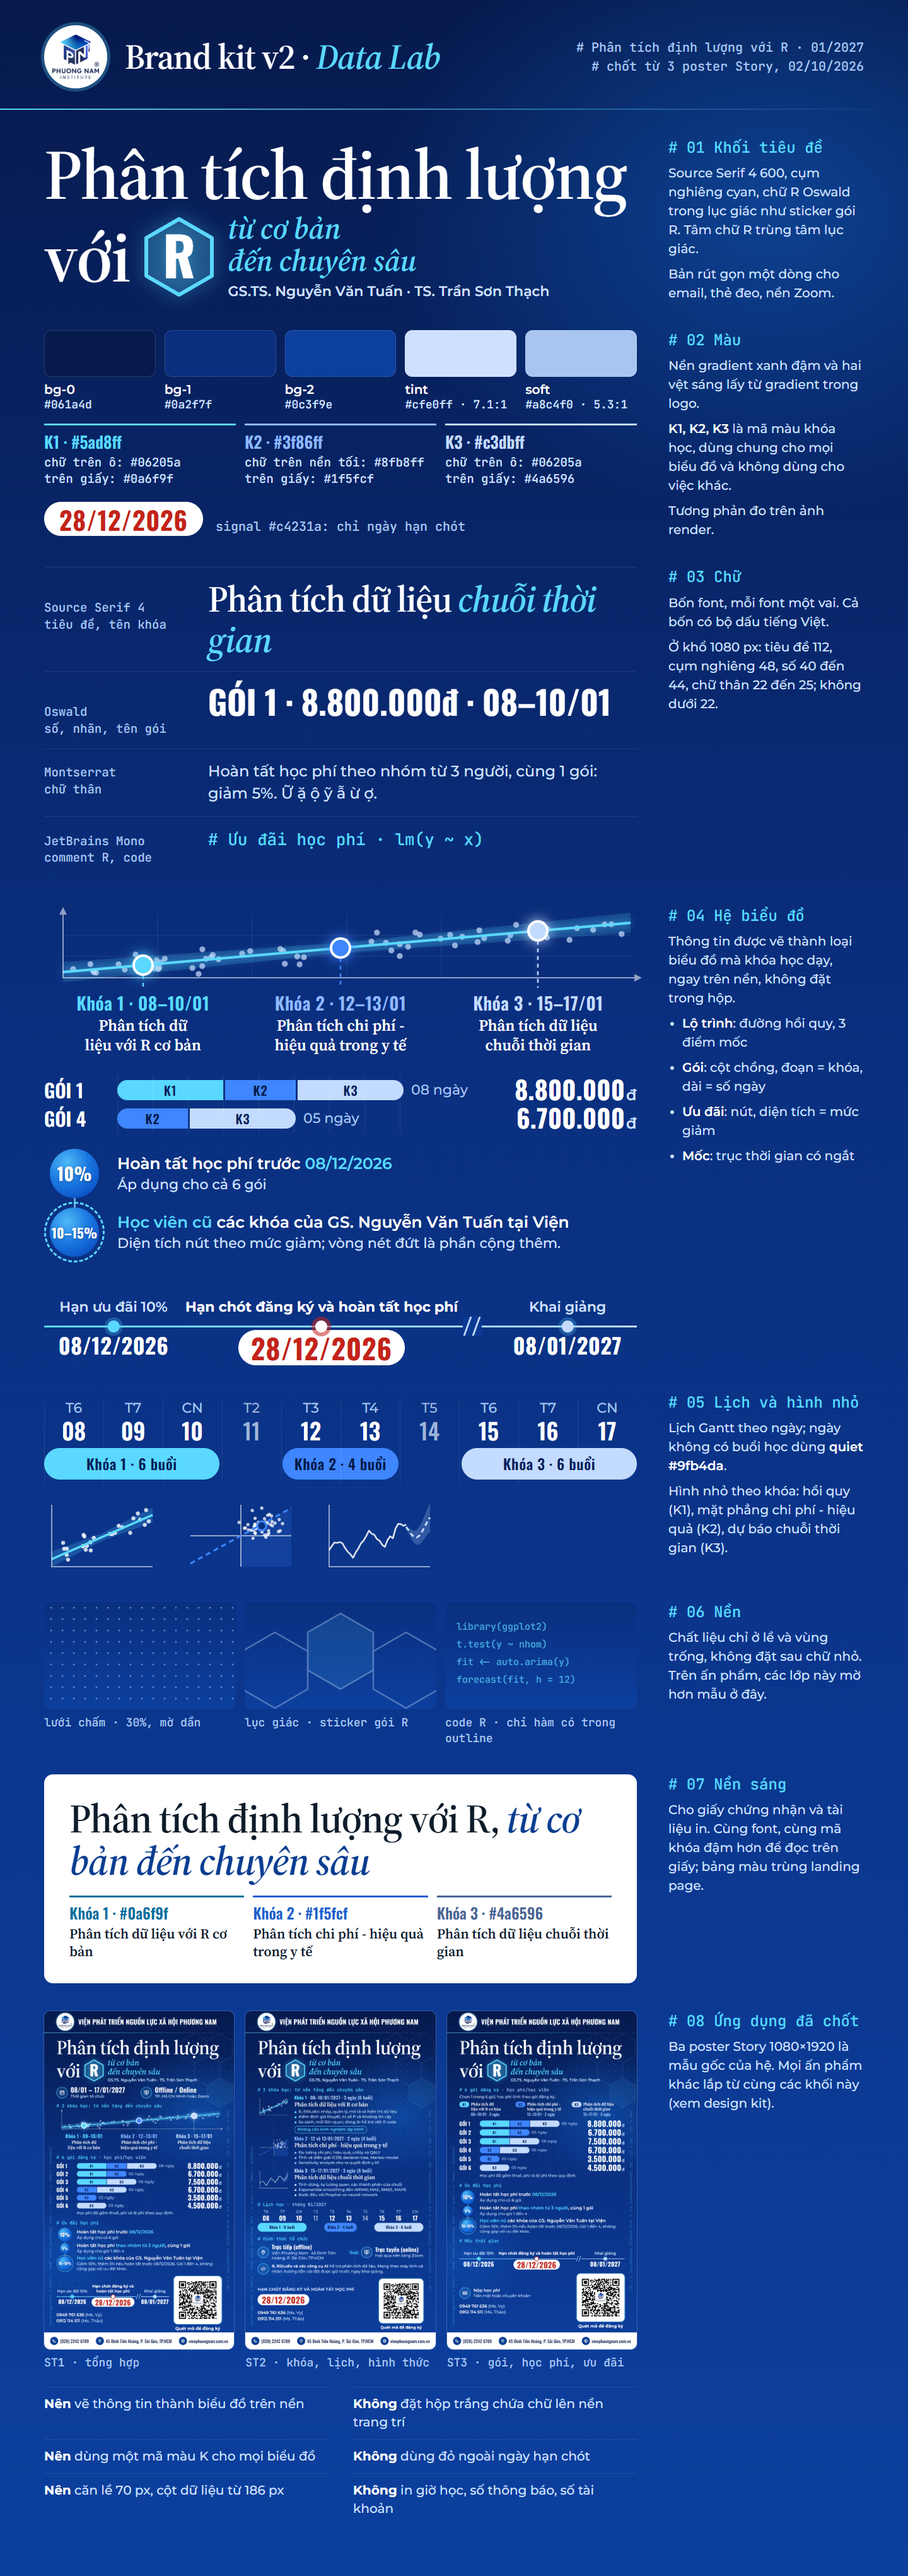
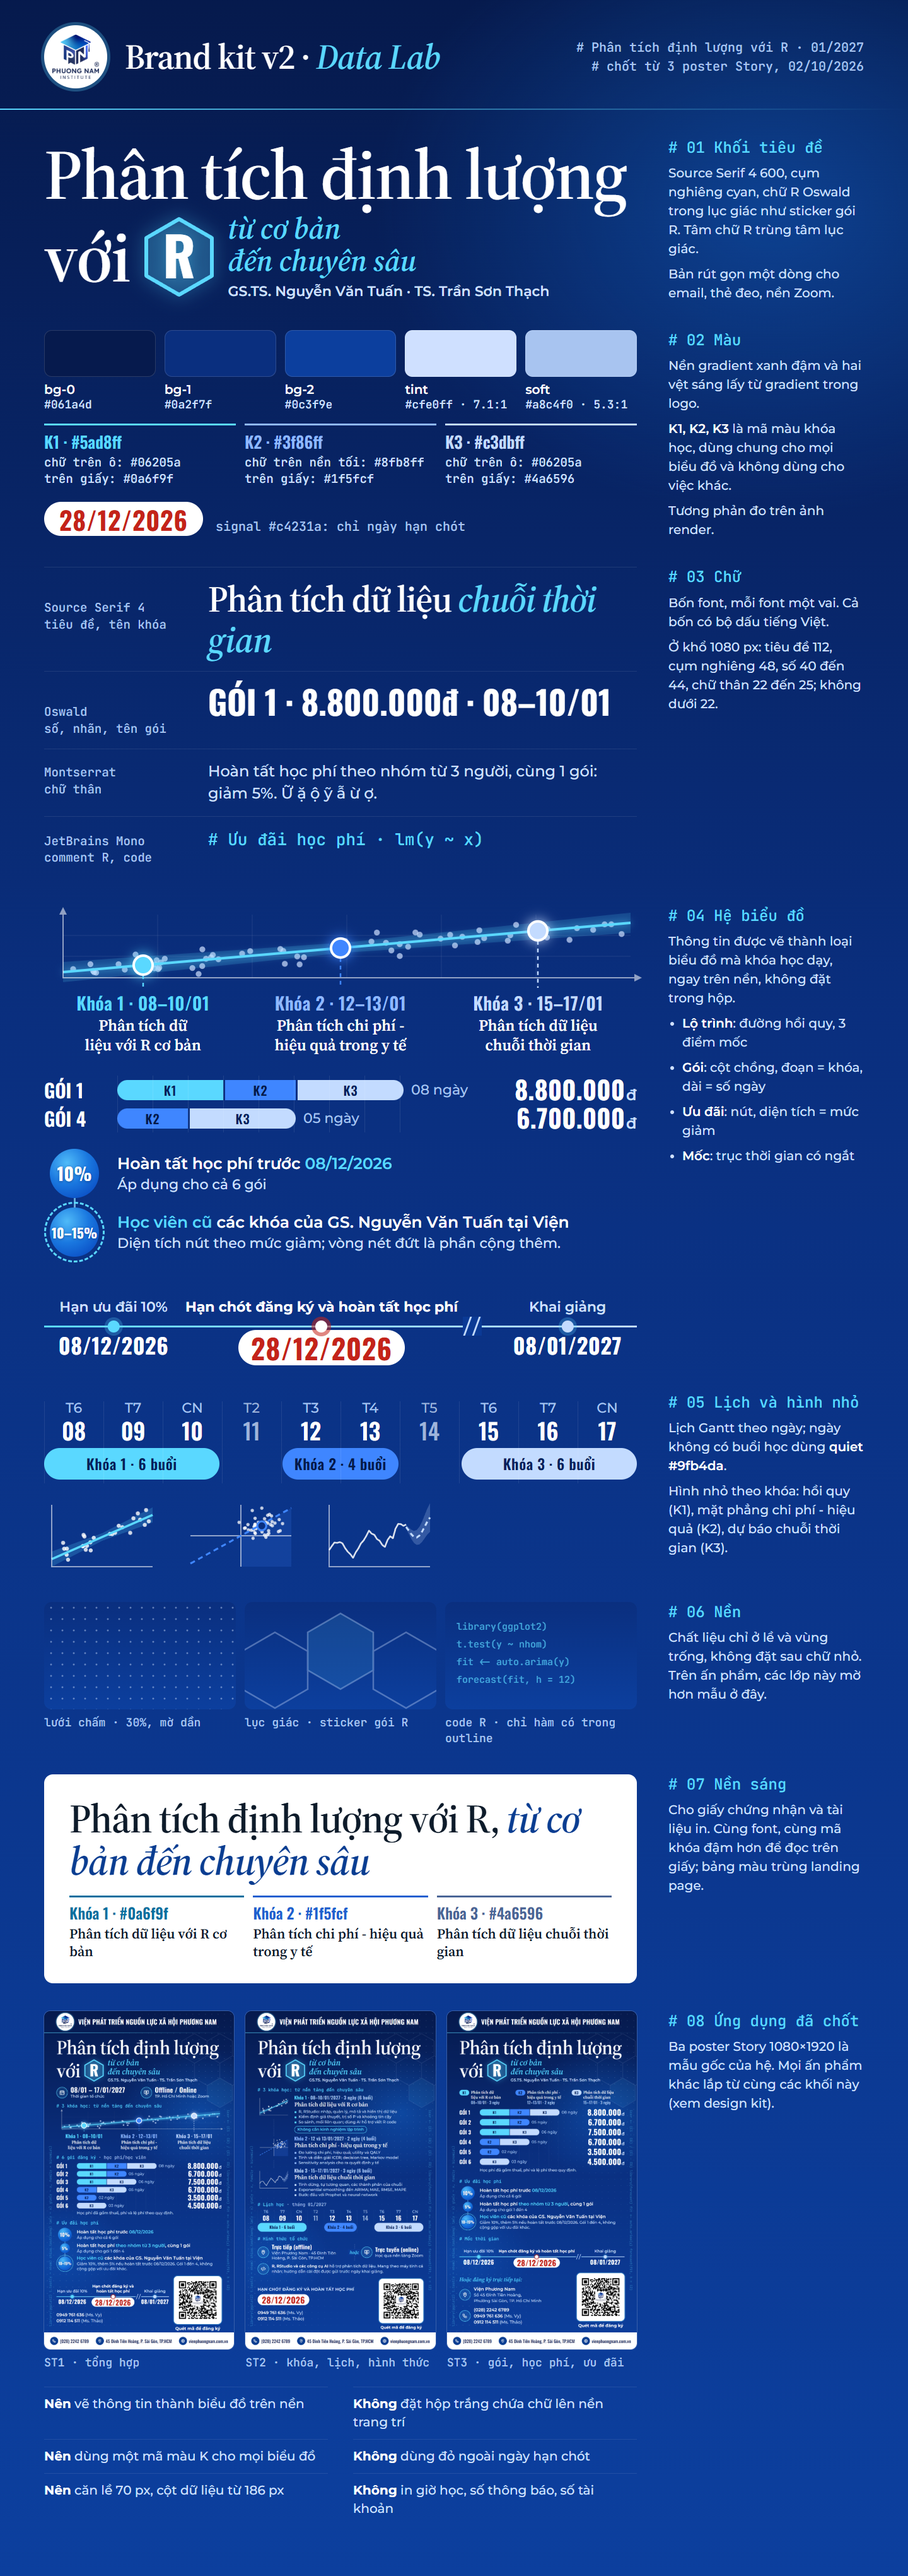
ST3 poster: walk-in registration details replace the payment block
Feedback on the fee poster (ST3):
- Drop the "# 6 gói đăng ký · học phí/học viên" label and the
  "Chọn 1 trong 6 gói" line; the K1/K2/K3 legend now opens the chart.
- Drop "Nộp học phí: tiền mặt hoặc chuyển khoản". content.md already
  says payment details belong on documents sent to registered students,
  not on posters.
- Show the full walk-in registration text beside the QR: "Hoặc đăng ký
  trực tiếp tại:" in the italic serif cyan that ST2 uses for "hoặc",
  then a pin row (Viện Phương Nam and the full address) and a phone row
  ((028) 2242 6789, Ms. Vy, Ms. Thảo). Line breaks replace the dash
  separators of the source text; every item is kept.

The freed height goes to the layout instead of a gap above the footer:
40px between the title and the legend, 56px bar rows (was 50px), and
32px between sections. Unused .pay and .pick rules are removed and
.reg is added. ST1 and ST2 render pixel-identical; text in the new
block measures at least 5.9:1 against the rendered background.

Changed region(s): [[0.5, 0.8091, 0.6875, 0.9025]]

diff --git a/media/poster/ads/story-goi-hoc-phi-uu-dai.html b/media/poster/ads/story-goi-hoc-phi-uu-dai.html
@@ -50,8 +50,6 @@
   </section>
 
   <section class="wrap" aria-label="Gói đăng ký và học phí">
-    <p class="code sec"># 6 gói đăng ký <span class="dim">· học phí/học viên</span></p>
-    <p class="pick">Chọn 1 trong 6 gói; học phí tính theo gói đăng ký.</p>
     <div class="legend">
       <div><i class="s1">K1</i><p><b>Phân tích dữ liệu với R cơ bản</b><span>08–10/01 · 3 ngày</span></p></div>
       <div><i class="s2">K2</i><p><b>Phân tích chi phí - hiệu quả trong y tế</b><span>12–13/01 · 2 ngày</span></p></div>
@@ -69,7 +67,7 @@
   </section>
 
   <section class="wrap" aria-label="Ưu đãi học phí">
-    <p class="code sec"># Ưu đãi học phí</p>
+    <p class="code sec" style="margin-top: 32px"># Ưu đãi học phí</p>
     <ul class="deals">
       <li><span class="node n10">10%</span><p>Hoàn tất học phí trước <em>08/12/2026</em><small>Áp dụng cho cả 6 gói</small></p></li>
       <li><span class="node n5">5%</span><p>Hoàn tất học phí <em>theo nhóm từ 3 người</em>, cùng 1 gói<small>Áp dụng cho gói 1 đến 4</small></p></li>
@@ -78,7 +76,7 @@
   </section>
 
   <section class="wrap" aria-label="Mốc thời gian">
-    <p class="code sec" style="margin-top: 20px"># Mốc thời gian</p>
+    <p class="code sec" style="margin-top: 32px"># Mốc thời gian</p>
     <div class="time wide" style="margin-top: 10px">
       <div class="line"></div>
       <span class="brk" style="left: 664px"></span>
@@ -88,13 +86,17 @@
     </div>
   </section>
 
-  <section class="wrap end" aria-label="Nộp học phí và đăng ký">
-    <div>
-      <div class="pay">
-        <span class="ring"><svg viewBox="0 0 24 24" fill="none" stroke="#fff" stroke-width="2" stroke-linecap="round" stroke-linejoin="round"><rect x="2.5" y="6" width="19" height="12" rx="2"/><circle cx="12" cy="12" r="2.6"/><path d="M6 9.5v5M18 9.5v5"/></svg></span>
-        <p>Nộp học phí<span>Tiền mặt hoặc chuyển khoản</span></p>
+  <section class="wrap end" aria-label="Đăng ký" style="margin-top: 32px">
+    <div class="reg">
+      <p class="lead">Hoặc đăng ký trực tiếp tại:</p>
+      <div>
+        <span class="ring"><svg viewBox="0 0 24 24" fill="none" stroke="#fff" stroke-width="2" stroke-linecap="round" stroke-linejoin="round"><path d="M12 21s-6.5-6-6.5-11.2a6.5 6.5 0 0 1 13 0C18.5 15 12 21 12 21z"/><circle cx="12" cy="9.6" r="2.4"/></svg></span>
+        <p><b>Viện Phương Nam</b>Số 45 Đinh Tiên Hoàng,<br>Phường Sài Gòn, TP. Hồ Chí Minh</p>
       </div>
-      <p class="contact">0949 761 636 <span>(Ms. Vy)</span><br>0912 114 511 <span>(Ms. Thảo)</span></p>
+      <div>
+        <span class="ring"><svg viewBox="0 0 24 24" fill="none" stroke="#fff" stroke-width="2" stroke-linecap="round" stroke-linejoin="round"><path d="M5 4h3.5l1.8 4.5-2.3 1.4a11 11 0 0 0 5.1 5.1l1.4-2.3 4.5 1.8V18a2 2 0 0 1-2 2A15 15 0 0 1 3 6a2 2 0 0 1 2-2z"/></svg></span>
+        <p><b>(028) 2242 6789</b><b>0949 761 636 <span>(Ms. Vy)</span></b><b>0912 114 511 <span>(Ms. Thảo)</span></b></p>
+      </div>
     </div>
     <figure class="qr">
       <div class="box"><img src="../../../assets/M%C3%A3%20QR%20chu%E1%BB%97i%20PTDL%20R%2001.27.png" alt="Mã QR đăng ký chuỗi khóa học"></div>

diff --git a/media/poster/ads/story.css b/media/poster/ads/story.css
@@ -163,19 +163,21 @@ html, body { background: #dfe7f0; }
 /* ---- Closing block variants ---- */
 .dl p { font: 700 23px/1.3 var(--text); color: var(--tint); text-transform: uppercase; letter-spacing: 0.02em; }
 .dl .pill { display: inline-block; margin-top: 12px; background: #fff; color: var(--signal); border-radius: 30px; padding: 8px 24px 6px; font: 700 48px/1 var(--display); letter-spacing: 0.02em; }
-.pay { display: grid; grid-template-columns: 64px 1fr; column-gap: 16px; align-items: center; }
-.pay p { font: 600 24px/1.35 var(--text); }
-.pay p span { display: block; font: 500 22px/1.3 var(--text); color: var(--tint); }
+/* Walk-in registration beside the QR; the italic serif "Hoặc" matches the "hoặc" of the course poster */
+.reg .lead { font: italic 600 32px/1.2 var(--serif); color: var(--k1); }
+.reg div { display: grid; grid-template-columns: 64px 1fr; column-gap: 18px; align-items: center; margin-top: 18px; }
+.reg p { font: 500 23px/1.4 var(--text); color: var(--tint); }
+.reg b { display: block; font: 600 25px/1.4 var(--text); color: #fff; }
+.reg b span { font-weight: 500; color: var(--tint); }
 
 /* ---- Fee poster: course legend for the bar chart ---- */
-.legend { display: grid; grid-template-columns: repeat(3, 1fr); column-gap: 18px; margin-top: 12px; }
+.legend { display: grid; grid-template-columns: repeat(3, 1fr); column-gap: 18px; margin-top: 40px; }
 .legend div { display: grid; grid-template-columns: 56px 1fr; column-gap: 10px; align-items: start; }
 .legend i { display: grid; place-items: center; height: 32px; border-radius: 16px; font: 600 20px/1 var(--display); letter-spacing: 0.04em; font-style: normal; color: var(--ink-dark); }
 .legend i.s2 { color: #041a4a; }
 .legend b { display: block; font: 600 23px/1.22 var(--serif); text-wrap: balance; }
 .legend span { display: block; margin-top: 2px; font: 500 22px/1.2 var(--display); color: var(--soft); letter-spacing: 0.02em; }
 .legend .s1, .legend .s2, .legend .s3 { width: auto; }
-.pick { margin-top: 10px; font: 500 22px/1.3 var(--text); color: var(--tint); }
 
 /* Smaller QR block where the poster needs the height */
 .end.sm { grid-template-columns: 1fr 252px; }
@@ -184,7 +186,7 @@ html, body { background: #dfe7f0; }
 .qr.sm figcaption { font-size: 22px; white-space: nowrap; }
 
 /* ---- Fee poster: larger bars and a full-width time axis ---- */
-.bars-wrap.lg .bar { height: 50px; }
+.bars-wrap.lg .bar { height: 56px; }
 .bars-wrap.lg .track, .bars-wrap.lg .seg { height: 36px; }
 .bars-wrap.lg .seg:first-child { border-radius: 18px 0 0 18px; } .bars-wrap.lg .seg:last-child { border-radius: 0 18px 18px 0; } .bars-wrap.lg .seg:only-child { border-radius: 18px; }
 .bars-wrap.lg .fee { font-size: 44px; }

diff --git a/media/poster/README.md b/media/poster/README.md
@@ -17,7 +17,7 @@ Trạng thái: **đã chốt ST1, ST2, ST3** (02/10/2026), là mẫu gốc của
 | P4 | 1080×1080 | Một biểu đồ, một dòng ngày: bản giai đoạn 1 "Trước 08/12/2026: giảm 10%", bản giai đoạn 2 "Hạn chót 28/12/2026" |
 | ST1 | 1080×1920 (Story Instagram/Facebook) | **Đã dựng.** Quảng cáo dạng "mọi thông tin là một biểu đồ": lộ trình 3 khóa trên đường hồi quy, 6 gói là biểu đồ cột chồng theo số ngày, ưu đãi là đồ thị nút, mốc thời gian là trục có ngắt. `ads/story-khoa-goi-uu-dai.html` |
 | ST2 | 1080×1920 (Story/Reel) | **Đã dựng.** 3 khóa · lịch học · hình thức: mỗi khóa một hình nhỏ (hồi quy, mặt phẳng chi phí - hiệu quả, dự báo) và 3 nội dung chính từ outline; lịch Gantt 08–17/01/2027 theo ngày và số buổi; sơ đồ Trực tiếp hoặc Trực tuyến; phần mềm và máy tính cá nhân. `ads/story-khoa-hoc-lich-hoc.html` |
-| ST3 | 1080×1920 (Story/Reel) | **Đã dựng.** Gói · học phí · ưu đãi · hạn chót: chú giải K1/K2/K3, biểu đồ cột chồng 6 gói, 3 nút ưu đãi, trục thời gian 08/12 · 28/12 · 08/01, nộp học phí tiền mặt hoặc chuyển khoản. `ads/story-goi-hoc-phi-uu-dai.html` |
+| ST3 | 1080×1920 (Story/Reel) | **Đã dựng.** Gói · học phí · ưu đãi · hạn chót: chú giải K1/K2/K3, biểu đồ cột chồng 6 gói, 3 nút ưu đãi, trục thời gian 08/12 · 28/12 · 08/01, "Hoặc đăng ký trực tiếp tại:" địa chỉ đầy đủ và 3 số điện thoại cạnh QR. `ads/story-goi-hoc-phi-uu-dai.html` |
 | P5 | 1200×630 | Ảnh chia sẻ link: logo, tiêu đề một dòng, lộ trình, ngày tổ chức |
 
 Nội dung từng khóa (trước là P3a–c) nay nằm trong ST2.
@@ -65,7 +65,7 @@ Chi tiết đã sửa: logo rộng 74% đường kính khung tròn, cả khối 
 Ba poster dùng chung `ads/story.css` (màu, chữ, các khối) và `ads/story.js` (biểu đồ lộ trình và 3 hình nhỏ theo khóa, dữ liệu mô phỏng có seed cố định). Sửa một khối ở `story.css` là sửa cho cả ba; sau khi tách file chung, ST1 render lại trùng từng pixel với bản đã duyệt.
 
 - **ST2** lấy nội dung từ outline đã duyệt (`assets/Outline khoá 1-3_v2`): mục tiêu từng khóa, số buổi (6, 4, 6), "Không cần kinh nghiệm lập trình" (Khóa 1), mang theo máy tính cá nhân và hướng dẫn cài đặt gửi trước khai giảng. Không in giờ học hằng ngày vì thông báo v4 và outline không ghi. Ngày 11 và 14/01 không có buổi học, in màu #9fb4da.
-- **ST3** không in số tài khoản (chỉ "tiền mặt hoặc chuyển khoản"), theo quy tắc trong `../brand-kit/content.md`.
+- **ST3** không in thông tin nộp học phí (hình thức, số tài khoản), theo quy tắc trong `../brand-kit/content.md`; bỏ nhãn "# 6 gói đăng ký" và dòng "Chọn 1 trong 6 gói" theo góp ý, chú giải K1/K2/K3 mở đầu biểu đồ.
 - Khung QR của ST2 nhỏ hơn (252 px) để vừa chiều cao; ST1 và ST3 giữ 272 px.
 
 **Xuất lại** sau khi sửa chữ trong file HTML:

diff --git a/media/design-kit/README.md b/media/design-kit/README.md
@@ -70,7 +70,7 @@ Tên lớp CSS trong `story.css`. Kích thước ở khổ gốc.
 | Nút ưu đãi | `.deals`, `.node` | 10%, 5%, 10–15% kèm điều kiện | Diện tích nút theo mức giảm |
 | Trục thời gian | `.time`, `.mk`, `.brk` | 08/12, 28/12 (pill trắng chữ đỏ), 08/01 | `.wide` cho bản rộng hết khổ |
 | Hạn chót gọn | `.dl`, `.pill` | Nhãn in hoa và pill ngày | Khi không có trục thời gian |
-| Nộp học phí | `.pay` | "Tiền mặt hoặc chuyển khoản" | Không số tài khoản |
+| Đăng ký trực tiếp | `.reg` | "Hoặc đăng ký trực tiếp tại:" (serif nghiêng cyan), ghim: Viện Phương Nam và địa chỉ đầy đủ, điện thoại: 3 số | Đặt cạnh QR. Không in thông tin nộp học phí |
 | QR | `.qr`, `.qr.sm` | Khung trắng 272 px (hoặc 252), vùng yên tĩnh 22 px, chú thích | In: cạnh mã tối thiểu 25 mm |
 | Liên hệ | `.contact` | Ms. Vy, Ms. Thảo | |
 | Dải chân | `.foot` | Điện thoại, địa chỉ, website với icon | Cao 96 px, nền trắng |

diff --git a/media/brand-kit/content.md b/media/brand-kit/content.md
@@ -109,7 +109,7 @@ Không nhắc quà tặng sách: thông báo v3 trở đi đã bỏ.
 
 - Đăng ký trực tuyến: https://vienphuongnam.com.vn/phan-tich-du-lieu-voi-r (hoặc quét mã QR)
 - Mã QR: `assets/Mã QR chuỗi PTDL R 01.27.png` (Viện cung cấp, có logo ở giữa). Chưa giải mã được trên máy để kiểm tra đích đến; quét thử trước mỗi lần xuất bản.
-- Đăng ký trực tiếp: Viện Phương Nam, Số 45 Đinh Tiên Hoàng, Phường Sài Gòn, TP. Hồ Chí Minh
+- Đăng ký trực tiếp (trên ấn phẩm, câu dẫn sau QR: "Hoặc đăng ký trực tiếp tại:"): Viện Phương Nam, Số 45 Đinh Tiên Hoàng, Phường Sài Gòn, TP. Hồ Chí Minh
 - Điện thoại: (028) 2242 6789 · 0949 761 636 (Ms. Vy) · 0912 114 511 (Ms. Thảo)
 
 ## Nộp học phí (chỉ in trên tài liệu gửi học viên, không in lên poster, standee, backdrop)

diff --git a/media/brand-kit/README.md b/media/brand-kit/README.md
@@ -134,7 +134,7 @@ Chất liệu chỉ nằm ở lề và vùng trống; không đặt sau chữ nh
 ## 9. Biểu tượng
 
 - Nét 2 px trong ô 24×24, đầu nét tròn, màu trắng, đặt giữa vòng tròn 64 px viền cyan (thông tin) hoặc vòng tròn đặc navy 46 px (dải chân).
-- Bộ đang dùng: lịch, màn hình có người (học trực tuyến), ghim địa điểm, điện thoại, quả địa cầu, dấu code `</>`, tiền (nộp học phí).
+- Bộ đang dùng: lịch, màn hình có người (học trực tuyến), ghim địa điểm, điện thoại, quả địa cầu, dấu code `</>`.
 - Không dùng icon trang trí kiểu tia sét, ngôi sao, robot.
 
 ## 10. Giọng văn và nội dung
